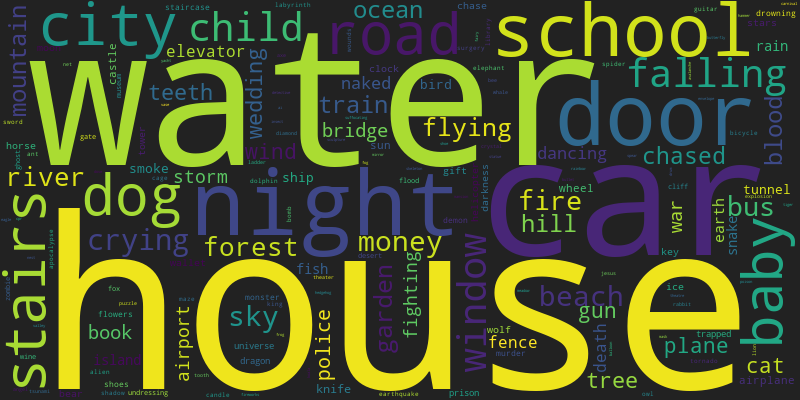
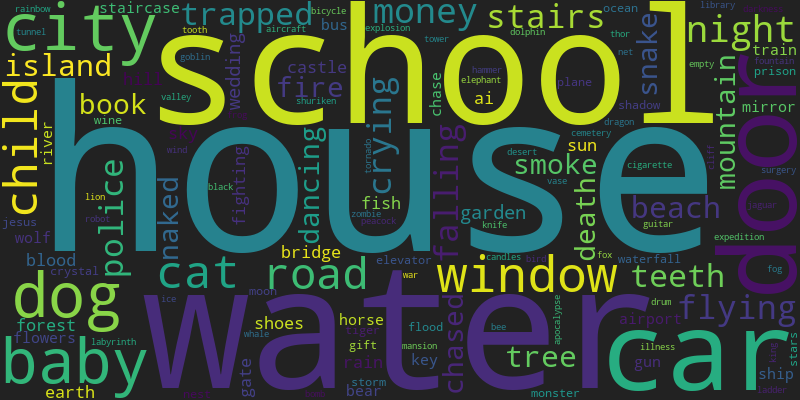
Add files via upload

diff --git a/index.html b/index.html
@@ -1,6 +1,6 @@
 <div style="padding-top: 50px;"></div>
 <h1 style="text-align:center;">Dreamverse State</h1>
-<h2 style="text-align:center;">August 30, 2024</h2>
+<h2 style="text-align:center;">September 30, 2024</h2>
 <div style="padding: 80px;"><html>
     <head>
         <meta charset="utf-8">
@@ -91,8 +91,8 @@
                   
 
                   // parsing and collecting nodes and edges from the python
-                  nodes = new vis.DataSet([{"color": "#FA2EE1", "font": {"color": "white"}, "id": "vulnerability", "label": "vulnerability", "shape": "dot", "title": "vulnerability"}, {"color": "#791435", "font": {"color": "white"}, "id": "anxiety", "label": "anxiety", "shape": "dot", "title": "anxiety"}, {"color": "#FA2EE1", "font": {"color": "white"}, "id": "relationships", "label": "relationships", "shape": "dot", "title": "relationships"}, {"color": "#791435", "font": {"color": "white"}, "id": "uncertainty", "label": "uncertainty", "shape": "dot", "title": "uncertainty"}, {"color": "#4A264A", "font": {"color": "white"}, "id": "family", "label": "family", "shape": "dot", "title": "family"}, {"color": "#4A264A", "font": {"color": "white"}, "id": "responsibility", "label": "responsibility", "shape": "dot", "title": "responsibility"}, {"color": "#4A264A", "font": {"color": "white"}, "id": "support", "label": "support", "shape": "dot", "title": "support"}, {"color": "#4A264A", "font": {"color": "white"}, "id": "conflict", "label": "conflict", "shape": "dot", "title": "conflict"}, {"color": "#4A264A", "font": {"color": "white"}, "id": "nostalgia", "label": "nostalgia", "shape": "dot", "title": "nostalgia"}, {"color": "#0CEF2D", "font": {"color": "white"}, "id": "control", "label": "control", "shape": "dot", "title": "control"}, {"color": "#791435", "font": {"color": "white"}, "id": "safety", "label": "safety", "shape": "dot", "title": "safety"}, {"color": "#4A264A", "font": {"color": "white"}, "id": "protection", "label": "protection", "shape": "dot", "title": "protection"}, {"color": "#B992BB", "font": {"color": "white"}, "id": "identity", "label": "identity", "shape": "dot", "title": "identity"}, {"color": "#FA2EE1", "font": {"color": "white"}, "id": "security", "label": "security", "shape": "dot", "title": "security"}, {"color": "#0CEF2D", "font": {"color": "white"}, "id": "boundaries", "label": "boundaries", "shape": "dot", "title": "boundaries"}, {"color": "#B992BB", "font": {"color": "white"}, "id": "change", "label": "change", "shape": "dot", "title": "change"}, {"color": "#FA2EE1", "font": {"color": "white"}, "id": "loss control", "label": "loss control", "shape": "dot", "title": "loss control"}, {"color": "#791435", "font": {"color": "white"}, "id": "fear", "label": "fear", "shape": "dot", "title": "fear"}, {"color": "#0CEF2D", "font": {"color": "white"}, "id": "resilience", "label": "resilience", "shape": "dot", "title": "resilience"}, {"color": "#4A264A", "font": {"color": "white"}, "id": "intimacy", "label": "intimacy", "shape": "dot", "title": "intimacy"}, {"color": "#B992BB", "font": {"color": "white"}, "id": "transformation", "label": "transformation", "shape": "dot", "title": "transformation"}, {"color": "#FA2EE1", "font": {"color": "white"}, "id": "betrayal", "label": "betrayal", "shape": "dot", "title": "betrayal"}, {"color": "#FA2EE1", "font": {"color": "white"}, "id": "communication", "label": "communication", "shape": "dot", "title": "communication"}, {"color": "#FA2EE1", "font": {"color": "white"}, "id": "insecurity", "label": "insecurity", "shape": "dot", "title": "insecurity"}, {"color": "#791435", "font": {"color": "white"}, "id": "transition", "label": "transition", "shape": "dot", "title": "transition"}, {"color": "#FA2EE1", "font": {"color": "white"}, "id": "exposure", "label": "exposure", "shape": "dot", "title": "exposure"}, {"color": "#4A264A", "font": {"color": "white"}, "id": "loss", "label": "loss", "shape": "dot", "title": "loss"}, {"color": "#4A264A", "font": {"color": "white"}, "id": "helplessness", "label": "helplessness", "shape": "dot", "title": "helplessness"}, {"color": "#FA2EE1", "font": {"color": "white"}, "id": "trust", "label": "trust", "shape": "dot", "title": "trust"}, {"color": "#FA2EE1", "font": {"color": "white"}, "id": "judgment", "label": "judgment", "shape": "dot", "title": "judgment"}, {"color": "#791435", "font": {"color": "white"}, "id": "powerlessness", "label": "powerlessness", "shape": "dot", "title": "powerlessness"}, {"color": "#FA2EE1", "font": {"color": "white"}, "id": "healing", "label": "healing", "shape": "dot", "title": "healing"}, {"color": "#B992BB", "font": {"color": "white"}, "id": "personal growth", "label": "personal growth", "shape": "dot", "title": "personal growth"}, {"color": "#0CEF2D", "font": {"color": "white"}, "id": "authority", "label": "authority", "shape": "dot", "title": "authority"}, {"color": "#4A264A", "font": {"color": "white"}, "id": "guilt", "label": "guilt", "shape": "dot", "title": "guilt"}, {"color": "#791435", "font": {"color": "white"}, "id": "overwhelm", "label": "overwhelm", "shape": "dot", "title": "overwhelm"}, {"color": "#791435", "font": {"color": "white"}, "id": "chaos", "label": "chaos", "shape": "dot", "title": "chaos"}, {"color": "#791435", "font": {"color": "white"}, "id": "pressure", "label": "pressure", "shape": "dot", "title": "pressure"}, {"color": "#0CEF2D", "font": {"color": "white"}, "id": "obstacles", "label": "obstacles", "shape": "dot", "title": "obstacles"}, {"color": "#791435", "font": {"color": "white"}, "id": "fear failure", "label": "fear failure", "shape": "dot", "title": "fear failure"}, {"color": "#791435", "font": {"color": "white"}, "id": "urgency", "label": "urgency", "shape": "dot", "title": "urgency"}, {"color": "#791435", "font": {"color": "white"}, "id": "unpreparedness", "label": "unpreparedness", "shape": "dot", "title": "unpreparedness"}, {"color": "#B992BB", "font": {"color": "white"}, "id": "new beginnings", "label": "new beginnings", "shape": "dot", "title": "new beginnings"}, {"color": "#791435", "font": {"color": "white"}, "id": "threat", "label": "threat", "shape": "dot", "title": "threat"}, {"color": "#791435", "font": {"color": "white"}, "id": "confrontation", "label": "confrontation", "shape": "dot", "title": "confrontation"}, {"color": "#791435", "font": {"color": "white"}, "id": "stress", "label": "stress", "shape": "dot", "title": "stress"}, {"color": "#791435", "font": {"color": "white"}, "id": "unresolved issues", "label": "unresolved issues", "shape": "dot", "title": "unresolved issues"}, {"color": "#4A264A", "font": {"color": "white"}, "id": "connection", "label": "connection", "shape": "dot", "title": "connection"}, {"color": "#791435", "font": {"color": "white"}, "id": "danger", "label": "danger", "shape": "dot", "title": "danger"}, {"color": "#791435", "font": {"color": "white"}, "id": "escape", "label": "escape", "shape": "dot", "title": "escape"}, {"color": "#B992BB", "font": {"color": "white"}, "id": "past relationships", "label": "past relationships", "shape": "dot", "title": "past relationships"}, {"color": "#B992BB", "font": {"color": "white"}, "id": "closure", "label": "closure", "shape": "dot", "title": "closure"}, {"color": "#B992BB", "font": {"color": "white"}, "id": "unresolved emotions", "label": "unresolved emotions", "shape": "dot", "title": "unresolved emotions"}, {"color": "#4A264A", "font": {"color": "white"}, "id": "comfort", "label": "comfort", "shape": "dot", "title": "comfort"}, {"color": "#791435", "font": {"color": "white"}, "id": "journey", "label": "journey", "shape": "dot", "title": "journey"}, {"color": "#B992BB", "font": {"color": "white"}, "id": "selfdiscovery", "label": "selfdiscovery", "shape": "dot", "title": "selfdiscovery"}, {"color": "#4A264A", "font": {"color": "white"}, "id": "guidance", "label": "guidance", "shape": "dot", "title": "guidance"}, {"color": "#791435", "font": {"color": "white"}, "id": "isolation", "label": "isolation", "shape": "dot", "title": "isolation"}, {"color": "#B992BB", "font": {"color": "white"}, "id": "growth", "label": "growth", "shape": "dot", "title": "growth"}, {"color": "#791435", "font": {"color": "white"}, "id": "struggle", "label": "struggle", "shape": "dot", "title": "struggle"}, {"color": "#0CEF2D", "font": {"color": "white"}, "id": "strength", "label": "strength", "shape": "dot", "title": "strength"}, {"color": "#B992BB", "font": {"color": "white"}, "id": "exploration", "label": "exploration", "shape": "dot", "title": "exploration"}, {"color": "#0CEF2D", "font": {"color": "white"}, "id": "frustration", "label": "frustration", "shape": "dot", "title": "frustration"}, {"color": "#0CEF2D", "font": {"color": "white"}, "id": "independence", "label": "independence", "shape": "dot", "title": "independence"}, {"color": "#0CEF2D", "font": {"color": "white"}, "id": "stability", "label": "stability", "shape": "dot", "title": "stability"}, {"color": "#0CEF2D", "font": {"color": "white"}, "id": "power", "label": "power", "shape": "dot", "title": "power"}, {"color": "#0CEF2D", "font": {"color": "white"}, "id": "balance", "label": "balance", "shape": "dot", "title": "balance"}, {"color": "#FA2EE1", "font": {"color": "white"}, "id": "jealousy", "label": "jealousy", "shape": "dot", "title": "jealousy"}, {"color": "#FA2EE1", "font": {"color": "white"}, "id": "relationship", "label": "relationship", "shape": "dot", "title": "relationship"}, {"color": "#4A264A", "font": {"color": "white"}, "id": "friendship", "label": "friendship", "shape": "dot", "title": "friendship"}, {"color": "#4A264A", "font": {"color": "white"}, "id": "wisdom", "label": "wisdom", "shape": "dot", "title": "wisdom"}, {"color": "#0CEF2D", "font": {"color": "white"}, "id": "challenges", "label": "challenges", "shape": "dot", "title": "challenges"}, {"color": "#B992BB", "font": {"color": "white"}, "id": "acceptance", "label": "acceptance", "shape": "dot", "title": "acceptance"}, {"color": "#4A264A", "font": {"color": "white"}, "id": "childhood", "label": "childhood", "shape": "dot", "title": "childhood"}, {"color": "#4A264A", "font": {"color": "white"}, "id": "grief", "label": "grief", "shape": "dot", "title": "grief"}, {"color": "#B992BB", "font": {"color": "white"}, "id": "belonging", "label": "belonging", "shape": "dot", "title": "belonging"}, {"color": "#4A264A", "font": {"color": "white"}, "id": "nurturing", "label": "nurturing", "shape": "dot", "title": "nurturing"}, {"color": "#B992BB", "font": {"color": "white"}, "id": "adventure", "label": "adventure", "shape": "dot", "title": "adventure"}, {"color": "#0CEF2D", "font": {"color": "white"}, "id": "harmony", "label": "harmony", "shape": "dot", "title": "harmony"}, {"color": "#4A264A", "font": {"color": "white"}, "id": "desire", "label": "desire", "shape": "dot", "title": "desire"}]);
-                  edges = new vis.DataSet([{"from": "vulnerability", "to": "anxiety", "value": 67}, {"from": "vulnerability", "to": "relationships", "value": 13}, {"from": "vulnerability", "to": "uncertainty", "value": 14}, {"from": "vulnerability", "to": "family", "value": 16}, {"from": "vulnerability", "to": "responsibility", "value": 13}, {"from": "vulnerability", "to": "support", "value": 31}, {"from": "vulnerability", "to": "conflict", "value": 19}, {"from": "vulnerability", "to": "nostalgia", "value": 10}, {"from": "vulnerability", "to": "control", "value": 37}, {"from": "vulnerability", "to": "safety", "value": 11}, {"from": "vulnerability", "to": "protection", "value": 43}, {"from": "vulnerability", "to": "identity", "value": 22}, {"from": "vulnerability", "to": "security", "value": 23}, {"from": "vulnerability", "to": "boundaries", "value": 11}, {"from": "vulnerability", "to": "change", "value": 20}, {"from": "vulnerability", "to": "loss control", "value": 17}, {"from": "vulnerability", "to": "fear", "value": 68}, {"from": "vulnerability", "to": "resilience", "value": 18}, {"from": "vulnerability", "to": "intimacy", "value": 13}, {"from": "vulnerability", "to": "transformation", "value": 17}, {"from": "vulnerability", "to": "betrayal", "value": 11}, {"from": "vulnerability", "to": "communication", "value": 11}, {"from": "vulnerability", "to": "insecurity", "value": 18}, {"from": "vulnerability", "to": "transition", "value": 11}, {"from": "vulnerability", "to": "exposure", "value": 18}, {"from": "vulnerability", "to": "loss", "value": 22}, {"from": "vulnerability", "to": "helplessness", "value": 14}, {"from": "vulnerability", "to": "trust", "value": 13}, {"from": "vulnerability", "to": "judgment", "value": 14}, {"from": "vulnerability", "to": "powerlessness", "value": 10}, {"from": "vulnerability", "to": "healing", "value": 12}, {"from": "anxiety", "to": "fear", "value": 109}, {"from": "anxiety", "to": "loss", "value": 40}, {"from": "anxiety", "to": "change", "value": 37}, {"from": "anxiety", "to": "identity", "value": 24}, {"from": "anxiety", "to": "conflict", "value": 17}, {"from": "anxiety", "to": "protection", "value": 54}, {"from": "anxiety", "to": "personal growth", "value": 12}, {"from": "anxiety", "to": "family", "value": 38}, {"from": "anxiety", "to": "control", "value": 46}, {"from": "anxiety", "to": "safety", "value": 16}, {"from": "anxiety", "to": "loss control", "value": 18}, {"from": "anxiety", "to": "transformation", "value": 20}, {"from": "anxiety", "to": "authority", "value": 10}, {"from": "anxiety", "to": "guilt", "value": 22}, {"from": "anxiety", "to": "overwhelm", "value": 23}, {"from": "anxiety", "to": "resilience", "value": 18}, {"from": "anxiety", "to": "responsibility", "value": 58}, {"from": "anxiety", "to": "security", "value": 17}, {"from": "anxiety", "to": "chaos", "value": 10}, {"from": "anxiety", "to": "pressure", "value": 15}, {"from": "anxiety", "to": "support", "value": 33}, {"from": "anxiety", "to": "uncertainty", "value": 36}, {"from": "anxiety", "to": "obstacles", "value": 11}, {"from": "anxiety", "to": "helplessness", "value": 22}, {"from": "anxiety", "to": "fear failure", "value": 14}, {"from": "anxiety", "to": "urgency", "value": 10}, {"from": "anxiety", "to": "unpreparedness", "value": 10}, {"from": "anxiety", "to": "new beginnings", "value": 14}, {"from": "anxiety", "to": "relationships", "value": 18}, {"from": "anxiety", "to": "communication", "value": 18}, {"from": "anxiety", "to": "threat", "value": 12}, {"from": "anxiety", "to": "confrontation", "value": 11}, {"from": "anxiety", "to": "stress", "value": 28}, {"from": "anxiety", "to": "transition", "value": 23}, {"from": "anxiety", "to": "nostalgia", "value": 13}, {"from": "anxiety", "to": "unresolved issues", "value": 12}, {"from": "anxiety", "to": "connection", "value": 10}, {"from": "anxiety", "to": "danger", "value": 15}, {"from": "anxiety", "to": "powerlessness", "value": 11}, {"from": "relationships", "to": "personal growth", "value": 13}, {"from": "relationships", "to": "fear", "value": 16}, {"from": "relationships", "to": "control", "value": 13}, {"from": "relationships", "to": "uncertainty", "value": 11}, {"from": "relationships", "to": "communication", "value": 14}, {"from": "relationships", "to": "identity", "value": 13}, {"from": "relationships", "to": "conflict", "value": 13}, {"from": "relationships", "to": "support", "value": 10}, {"from": "relationships", "to": "exploration", "value": 10}, {"from": "relationships", "to": "trust", "value": 11}, {"from": "relationships", "to": "change", "value": 13}, {"from": "relationships", "to": "insecurity", "value": 11}, {"from": "relationships", "to": "nostalgia", "value": 12}, {"from": "uncertainty", "to": "transition", "value": 19}, {"from": "uncertainty", "to": "fear", "value": 33}, {"from": "uncertainty", "to": "protection", "value": 12}, {"from": "uncertainty", "to": "control", "value": 20}, {"from": "uncertainty", "to": "support", "value": 15}, {"from": "uncertainty", "to": "loss", "value": 10}, {"from": "uncertainty", "to": "responsibility", "value": 12}, {"from": "uncertainty", "to": "guidance", "value": 11}, {"from": "uncertainty", "to": "transformation", "value": 10}, {"from": "uncertainty", "to": "change", "value": 13}, {"from": "family", "to": "comfort", "value": 11}, {"from": "family", "to": "journey", "value": 12}, {"from": "family", "to": "guilt", "value": 11}, {"from": "family", "to": "transition", "value": 13}, {"from": "family", "to": "fear", "value": 21}, {"from": "family", "to": "protection", "value": 33}, {"from": "family", "to": "control", "value": 12}, {"from": "family", "to": "security", "value": 11}, {"from": "family", "to": "friendship", "value": 11}, {"from": "family", "to": "guidance", "value": 14}, {"from": "family", "to": "loss", "value": 26}, {"from": "family", "to": "responsibility", "value": 38}, {"from": "family", "to": "support", "value": 27}, {"from": "family", "to": "nurturing", "value": 11}, {"from": "family", "to": "nostalgia", "value": 30}, {"from": "family", "to": "grief", "value": 11}, {"from": "family", "to": "connection", "value": 17}, {"from": "family", "to": "change", "value": 15}, {"from": "responsibility", "to": "personal growth", "value": 11}, {"from": "responsibility", "to": "guilt", "value": 20}, {"from": "responsibility", "to": "fear", "value": 24}, {"from": "responsibility", "to": "protection", "value": 34}, {"from": "responsibility", "to": "control", "value": 19}, {"from": "responsibility", "to": "loss", "value": 16}, {"from": "responsibility", "to": "identity", "value": 11}, {"from": "responsibility", "to": "support", "value": 21}, {"from": "responsibility", "to": "overwhelm", "value": 15}, {"from": "responsibility", "to": "nurturing", "value": 28}, {"from": "responsibility", "to": "new beginnings", "value": 13}, {"from": "responsibility", "to": "pressure", "value": 13}, {"from": "responsibility", "to": "balance", "value": 13}, {"from": "responsibility", "to": "change", "value": 12}, {"from": "support", "to": "fear", "value": 28}, {"from": "support", "to": "protection", "value": 18}, {"from": "support", "to": "control", "value": 11}, {"from": "support", "to": "security", "value": 11}, {"from": "support", "to": "friendship", "value": 13}, {"from": "support", "to": "guidance", "value": 20}, {"from": "support", "to": "challenges", "value": 14}, {"from": "support", "to": "loss", "value": 12}, {"from": "support", "to": "identity", "value": 12}, {"from": "support", "to": "conflict", "value": 17}, {"from": "support", "to": "nurturing", "value": 13}, {"from": "support", "to": "resilience", "value": 13}, {"from": "support", "to": "nostalgia", "value": 14}, {"from": "conflict", "to": "guilt", "value": 14}, {"from": "conflict", "to": "fear", "value": 28}, {"from": "conflict", "to": "protection", "value": 15}, {"from": "conflict", "to": "identity", "value": 13}, {"from": "nostalgia", "to": "comfort", "value": 15}, {"from": "nostalgia", "to": "personal growth", "value": 13}, {"from": "nostalgia", "to": "protection", "value": 12}, {"from": "nostalgia", "to": "friendship", "value": 20}, {"from": "nostalgia", "to": "guidance", "value": 11}, {"from": "nostalgia", "to": "childhood", "value": 15}, {"from": "nostalgia", "to": "loss", "value": 16}, {"from": "nostalgia", "to": "identity", "value": 10}, {"from": "nostalgia", "to": "change", "value": 16}, {"from": "nostalgia", "to": "connection", "value": 13}, {"from": "control", "to": "fear", "value": 35}, {"from": "control", "to": "protection", "value": 20}, {"from": "control", "to": "identity", "value": 14}, {"from": "control", "to": "authority", "value": 13}, {"from": "control", "to": "insecurity", "value": 17}, {"from": "control", "to": "transformation", "value": 13}, {"from": "control", "to": "resilience", "value": 11}, {"from": "control", "to": "change", "value": 12}, {"from": "control", "to": "loss", "value": 16}, {"from": "control", "to": "frustration", "value": 11}, {"from": "control", "to": "independence", "value": 11}, {"from": "control", "to": "boundaries", "value": 15}, {"from": "control", "to": "trust", "value": 10}, {"from": "control", "to": "stability", "value": 13}, {"from": "control", "to": "power", "value": 11}, {"from": "control", "to": "balance", "value": 12}, {"from": "safety", "to": "fear", "value": 12}, {"from": "safety", "to": "protection", "value": 17}, {"from": "protection", "to": "fear", "value": 50}, {"from": "protection", "to": "guidance", "value": 10}, {"from": "protection", "to": "transformation", "value": 14}, {"from": "protection", "to": "loss", "value": 15}, {"from": "protection", "to": "helplessness", "value": 19}, {"from": "protection", "to": "change", "value": 12}, {"from": "protection", "to": "strength", "value": 11}, {"from": "identity", "to": "selfdiscovery", "value": 10}, {"from": "identity", "to": "acceptance", "value": 10}, {"from": "identity", "to": "loss", "value": 12}, {"from": "identity", "to": "transformation", "value": 29}, {"from": "identity", "to": "change", "value": 19}, {"from": "identity", "to": "authority", "value": 12}, {"from": "identity", "to": "belonging", "value": 10}, {"from": "security", "to": "fear", "value": 16}, {"from": "change", "to": "transition", "value": 23}, {"from": "change", "to": "fear", "value": 22}, {"from": "change", "to": "friendship", "value": 10}, {"from": "change", "to": "loss", "value": 18}, {"from": "change", "to": "transformation", "value": 29}, {"from": "change", "to": "growth", "value": 15}, {"from": "change", "to": "new beginnings", "value": 10}, {"from": "loss control", "to": "fear", "value": 15}, {"from": "fear", "to": "escape", "value": 10}, {"from": "fear", "to": "guilt", "value": 17}, {"from": "fear", "to": "transition", "value": 14}, {"from": "fear", "to": "loss", "value": 25}, {"from": "fear", "to": "transformation", "value": 22}, {"from": "fear", "to": "authority", "value": 13}, {"from": "fear", "to": "pressure", "value": 16}, {"from": "fear", "to": "helplessness", "value": 20}, {"from": "fear", "to": "guidance", "value": 11}, {"from": "fear", "to": "powerlessness", "value": 17}, {"from": "fear", "to": "obstacles", "value": 10}, {"from": "fear", "to": "overwhelm", "value": 16}, {"from": "fear", "to": "threat", "value": 11}, {"from": "fear", "to": "confrontation", "value": 17}, {"from": "fear", "to": "resilience", "value": 15}, {"from": "fear", "to": "danger", "value": 16}, {"from": "fear", "to": "insecurity", "value": 22}, {"from": "fear", "to": "stress", "value": 10}, {"from": "fear", "to": "isolation", "value": 15}, {"from": "fear", "to": "growth", "value": 11}, {"from": "fear", "to": "struggle", "value": 12}, {"from": "resilience", "to": "challenges", "value": 12}, {"from": "resilience", "to": "transformation", "value": 12}, {"from": "resilience", "to": "strength", "value": 11}, {"from": "intimacy", "to": "friendship", "value": 10}, {"from": "intimacy", "to": "desire", "value": 18}, {"from": "intimacy", "to": "connection", "value": 14}, {"from": "transformation", "to": "personal growth", "value": 15}, {"from": "transformation", "to": "selfdiscovery", "value": 17}, {"from": "transformation", "to": "growth", "value": 22}, {"from": "transformation", "to": "new beginnings", "value": 18}, {"from": "betrayal", "to": "loss", "value": 10}, {"from": "betrayal", "to": "insecurity", "value": 15}, {"from": "communication", "to": "relationship", "value": 13}, {"from": "communication", "to": "insecurity", "value": 13}, {"from": "insecurity", "to": "jealousy", "value": 11}, {"from": "insecurity", "to": "trust", "value": 12}, {"from": "transition", "to": "journey", "value": 14}, {"from": "transition", "to": "personal growth", "value": 14}, {"from": "transition", "to": "loss", "value": 15}, {"from": "loss", "to": "grief", "value": 30}, {"from": "loss", "to": "connection", "value": 12}, {"from": "loss", "to": "helplessness", "value": 17}, {"from": "personal growth", "to": "past relationships", "value": 11}, {"from": "personal growth", "to": "selfdiscovery", "value": 19}, {"from": "personal growth", "to": "new beginnings", "value": 13}, {"from": "obstacles", "to": "frustration", "value": 10}, {"from": "new beginnings", "to": "nurturing", "value": 13}, {"from": "connection", "to": "friendship", "value": 12}, {"from": "connection", "to": "nurturing", "value": 10}, {"from": "connection", "to": "exploration", "value": 11}, {"from": "connection", "to": "desire", "value": 10}, {"from": "past relationships", "to": "closure", "value": 10}, {"from": "past relationships", "to": "unresolved emotions", "value": 11}, {"from": "selfdiscovery", "to": "exploration", "value": 11}, {"from": "guidance", "to": "wisdom", "value": 11}, {"from": "growth", "to": "exploration", "value": 11}, {"from": "exploration", "to": "adventure", "value": 16}, {"from": "balance", "to": "harmony", "value": 11}]);
+                  nodes = new vis.DataSet([{"color": "#CFE401", "font": {"color": "white"}, "id": "transition", "label": "transition", "shape": "dot", "title": "transition"}, {"color": "#CFE401", "font": {"color": "white"}, "id": "change", "label": "change", "shape": "dot", "title": "change"}, {"color": "#CFE401", "font": {"color": "white"}, "id": "growth", "label": "growth", "shape": "dot", "title": "growth"}, {"color": "#CFE401", "font": {"color": "white"}, "id": "identity", "label": "identity", "shape": "dot", "title": "identity"}, {"color": "#CFE401", "font": {"color": "white"}, "id": "transformation", "label": "transformation", "shape": "dot", "title": "transformation"}, {"color": "#CFE401", "font": {"color": "white"}, "id": "nostalgia", "label": "nostalgia", "shape": "dot", "title": "nostalgia"}, {"color": "#30AF31", "font": {"color": "white"}, "id": "anxiety", "label": "anxiety", "shape": "dot", "title": "anxiety"}, {"color": "#CFE401", "font": {"color": "white"}, "id": "uncertainty", "label": "uncertainty", "shape": "dot", "title": "uncertainty"}, {"color": "#1B681B", "font": {"color": "white"}, "id": "relationships", "label": "relationships", "shape": "dot", "title": "relationships"}, {"color": "#1B681B", "font": {"color": "white"}, "id": "friendship", "label": "friendship", "shape": "dot", "title": "friendship"}, {"color": "#CFE401", "font": {"color": "white"}, "id": "journey", "label": "journey", "shape": "dot", "title": "journey"}, {"color": "#30AF31", "font": {"color": "white"}, "id": "family", "label": "family", "shape": "dot", "title": "family"}, {"color": "#37807D", "font": {"color": "white"}, "id": "new beginnings", "label": "new beginnings", "shape": "dot", "title": "new beginnings"}, {"color": "#30AF31", "font": {"color": "white"}, "id": "nurturing", "label": "nurturing", "shape": "dot", "title": "nurturing"}, {"color": "#37807D", "font": {"color": "white"}, "id": "support", "label": "support", "shape": "dot", "title": "support"}, {"color": "#37807D", "font": {"color": "white"}, "id": "potential", "label": "potential", "shape": "dot", "title": "potential"}, {"color": "#30AF31", "font": {"color": "white"}, "id": "trust", "label": "trust", "shape": "dot", "title": "trust"}, {"color": "#30AF31", "font": {"color": "white"}, "id": "fear", "label": "fear", "shape": "dot", "title": "fear"}, {"color": "#1B681B", "font": {"color": "white"}, "id": "adventure", "label": "adventure", "shape": "dot", "title": "adventure"}, {"color": "#37807D", "font": {"color": "white"}, "id": "loss", "label": "loss", "shape": "dot", "title": "loss"}, {"color": "#30AF31", "font": {"color": "white"}, "id": "vulnerability", "label": "vulnerability", "shape": "dot", "title": "vulnerability"}, {"color": "#1B681B", "font": {"color": "white"}, "id": "creativity", "label": "creativity", "shape": "dot", "title": "creativity"}, {"color": "#1B681B", "font": {"color": "white"}, "id": "selfdiscovery", "label": "selfdiscovery", "shape": "dot", "title": "selfdiscovery"}, {"color": "#1B681B", "font": {"color": "white"}, "id": "selfexpression", "label": "selfexpression", "shape": "dot", "title": "selfexpression"}, {"color": "#CFE401", "font": {"color": "white"}, "id": "renewal", "label": "renewal", "shape": "dot", "title": "renewal"}, {"color": "#CFE401", "font": {"color": "white"}, "id": "personal growth", "label": "personal growth", "shape": "dot", "title": "personal growth"}, {"color": "#CFE401", "font": {"color": "white"}, "id": "healing", "label": "healing", "shape": "dot", "title": "healing"}, {"color": "#30AF31", "font": {"color": "white"}, "id": "protection", "label": "protection", "shape": "dot", "title": "protection"}, {"color": "#CFE401", "font": {"color": "white"}, "id": "spirituality", "label": "spirituality", "shape": "dot", "title": "spirituality"}, {"color": "#CFE401", "font": {"color": "white"}, "id": "reconciliation", "label": "reconciliation", "shape": "dot", "title": "reconciliation"}, {"color": "#30AF31", "font": {"color": "white"}, "id": "family dynamics", "label": "family dynamics", "shape": "dot", "title": "family dynamics"}, {"color": "#30AF31", "font": {"color": "white"}, "id": "responsibility", "label": "responsibility", "shape": "dot", "title": "responsibility"}, {"color": "#30AF31", "font": {"color": "white"}, "id": "empathy", "label": "empathy", "shape": "dot", "title": "empathy"}, {"color": "#1B681B", "font": {"color": "white"}, "id": "exploration", "label": "exploration", "shape": "dot", "title": "exploration"}, {"color": "#30AF31", "font": {"color": "white"}, "id": "overwhelm", "label": "overwhelm", "shape": "dot", "title": "overwhelm"}, {"color": "#30AF31", "font": {"color": "white"}, "id": "caregiving", "label": "caregiving", "shape": "dot", "title": "caregiving"}, {"color": "#30AF31", "font": {"color": "white"}, "id": "stress", "label": "stress", "shape": "dot", "title": "stress"}, {"color": "#30AF31", "font": {"color": "white"}, "id": "resilience", "label": "resilience", "shape": "dot", "title": "resilience"}, {"color": "#30AF31", "font": {"color": "white"}, "id": "exposure", "label": "exposure", "shape": "dot", "title": "exposure"}, {"color": "#CFE401", "font": {"color": "white"}, "id": "confusion", "label": "confusion", "shape": "dot", "title": "confusion"}, {"color": "#CFE401", "font": {"color": "white"}, "id": "cultural heritage", "label": "cultural heritage", "shape": "dot", "title": "cultural heritage"}, {"color": "#CFE401", "font": {"color": "white"}, "id": "childhood", "label": "childhood", "shape": "dot", "title": "childhood"}, {"color": "#1B681B", "font": {"color": "white"}, "id": "freedom", "label": "freedom", "shape": "dot", "title": "freedom"}, {"color": "#FEDF55", "font": {"color": "white"}, "id": "boundaries", "label": "boundaries", "shape": "dot", "title": "boundaries"}, {"color": "#FEDF55", "font": {"color": "white"}, "id": "control", "label": "control", "shape": "dot", "title": "control"}, {"color": "#30AF31", "font": {"color": "white"}, "id": "escape", "label": "escape", "shape": "dot", "title": "escape"}, {"color": "#37807D", "font": {"color": "white"}, "id": "grief", "label": "grief", "shape": "dot", "title": "grief"}]);
+                  edges = new vis.DataSet([{"from": "transition", "to": "change", "value": 4}, {"from": "change", "to": "growth", "value": 4}, {"from": "change", "to": "identity", "value": 7}, {"from": "change", "to": "transformation", "value": 8}, {"from": "change", "to": "nostalgia", "value": 5}, {"from": "change", "to": "anxiety", "value": 5}, {"from": "change", "to": "uncertainty", "value": 4}, {"from": "growth", "to": "identity", "value": 4}, {"from": "identity", "to": "transformation", "value": 5}, {"from": "identity", "to": "responsibility", "value": 4}, {"from": "identity", "to": "protection", "value": 4}, {"from": "identity", "to": "cultural heritage", "value": 4}, {"from": "transformation", "to": "relationships", "value": 5}, {"from": "transformation", "to": "journey", "value": 5}, {"from": "transformation", "to": "support", "value": 4}, {"from": "transformation", "to": "creativity", "value": 4}, {"from": "transformation", "to": "uncertainty", "value": 4}, {"from": "transformation", "to": "renewal", "value": 7}, {"from": "transformation", "to": "nostalgia", "value": 6}, {"from": "transformation", "to": "family", "value": 4}, {"from": "transformation", "to": "personal growth", "value": 4}, {"from": "transformation", "to": "selfdiscovery", "value": 6}, {"from": "transformation", "to": "healing", "value": 7}, {"from": "transformation", "to": "protection", "value": 4}, {"from": "transformation", "to": "spirituality", "value": 4}, {"from": "transformation", "to": "reconciliation", "value": 4}, {"from": "nostalgia", "to": "responsibility", "value": 4}, {"from": "nostalgia", "to": "childhood", "value": 4}, {"from": "anxiety", "to": "responsibility", "value": 11}, {"from": "anxiety", "to": "vulnerability", "value": 8}, {"from": "anxiety", "to": "family", "value": 7}, {"from": "anxiety", "to": "uncertainty", "value": 5}, {"from": "anxiety", "to": "fear", "value": 5}, {"from": "anxiety", "to": "protection", "value": 7}, {"from": "uncertainty", "to": "journey", "value": 4}, {"from": "uncertainty", "to": "family", "value": 4}, {"from": "uncertainty", "to": "confusion", "value": 4}, {"from": "relationships", "to": "friendship", "value": 4}, {"from": "friendship", "to": "adventure", "value": 4}, {"from": "journey", "to": "family", "value": 4}, {"from": "family", "to": "responsibility", "value": 9}, {"from": "family", "to": "vulnerability", "value": 4}, {"from": "family", "to": "fear", "value": 4}, {"from": "family", "to": "protection", "value": 12}, {"from": "new beginnings", "to": "nurturing", "value": 6}, {"from": "new beginnings", "to": "support", "value": 4}, {"from": "new beginnings", "to": "potential", "value": 5}, {"from": "nurturing", "to": "responsibility", "value": 8}, {"from": "nurturing", "to": "protection", "value": 4}, {"from": "support", "to": "loss", "value": 4}, {"from": "support", "to": "vulnerability", "value": 4}, {"from": "trust", "to": "fear", "value": 6}, {"from": "fear", "to": "vulnerability", "value": 4}, {"from": "fear", "to": "resilience", "value": 4}, {"from": "fear", "to": "protection", "value": 4}, {"from": "fear", "to": "escape", "value": 4}, {"from": "adventure", "to": "exploration", "value": 4}, {"from": "loss", "to": "responsibility", "value": 5}, {"from": "loss", "to": "protection", "value": 4}, {"from": "loss", "to": "grief", "value": 4}, {"from": "vulnerability", "to": "family dynamics", "value": 4}, {"from": "vulnerability", "to": "responsibility", "value": 9}, {"from": "vulnerability", "to": "stress", "value": 4}, {"from": "vulnerability", "to": "resilience", "value": 4}, {"from": "vulnerability", "to": "protection", "value": 9}, {"from": "vulnerability", "to": "exposure", "value": 5}, {"from": "creativity", "to": "selfdiscovery", "value": 5}, {"from": "creativity", "to": "selfexpression", "value": 6}, {"from": "selfdiscovery", "to": "exploration", "value": 6}, {"from": "protection", "to": "responsibility", "value": 13}, {"from": "protection", "to": "resilience", "value": 7}, {"from": "family dynamics", "to": "responsibility", "value": 4}, {"from": "responsibility", "to": "empathy", "value": 4}, {"from": "responsibility", "to": "overwhelm", "value": 5}, {"from": "responsibility", "to": "caregiving", "value": 4}, {"from": "exploration", "to": "freedom", "value": 4}, {"from": "boundaries", "to": "control", "value": 4}]);
 
                   nodeColors = {};
                   allNodes = nodes.get({ returnType: "Object" });
@@ -193,31 +193,43 @@
     
 <br>
 <h1>Initial Reflection</h1>
-<h2>Dreams are a profound gateway into our unconscious, a realm where our deepest fears, desires, and hopes intertwine. The Dreamverse, a shared space of interconnected dreams, reveals the intricate patterns of the human psyche. As we delve into these constellations of themes, we uncover the psychological undercurrents that shape our lives, guiding us towards self-awareness, healing, and growth. Each constellation offers a unique lens through which to view our inner world, urging us to confront and embrace the complexities within.</h2>
+<h2>Dreams offer a glimpse into the unconscious mind, revealing the deep-seated fears, desires, and transformative processes within each Seer. The constellations we uncover here are not just random clusters of thoughts, but profound maps of psychological and existential meaning. Each constellation carries insight into individual growth, societal tensions, and the universal quest for meaning. By exploring these constellations, we can better understand not only ourselves but the world around us.</h2>
 <br>
 
-<h1>The Constellation of Vulnerability and Healing</h1>
-<h2>This constellation revolves around the delicate balance between vulnerability and the search for security in relationships. Themes of trust, betrayal, and insecurity weave together to form a narrative of human connection, where the fear of exposure and judgment often battles with the deep-seated need for communication and healing. This constellation speaks to the universal human experience of navigating relationships, where the potential for hurt is intertwined with the possibility of profound growth and healing. It highlights the importance of trust and open communication in building secure connections, while also acknowledging the pain that can arise from betrayal and loss of control. The journey through this constellation is one of learning to embrace vulnerability as a pathway to deeper intimacy and self-acceptance.</h2>
+<details>
+  <summary><h1>Name of The Constellation 1: The Inner Conflict of Transformation</h1></summary>
+  <h2>This constellation represents a battle between old identities and new selves. Themes of death, rebirth, change, and resistance are prominent. Psychologically, this cluster points toward the challenges of personal growth, where the desire for transformation is met with internal resistance. Seers might feel stuck between letting go of the familiar and embracing the unknown. The struggle reflects both individual and collective shifts, mirroring how societies face upheavals before growth and evolution.</h2>
+</details>
 <br>
 
-<h1>The Constellation of Anxiety and Transition</h1>
-<h2>This constellation is a testament to the pervasive presence of anxiety in times of change and uncertainty. It captures the overwhelming feelings of powerlessness, chaos, and fear that accompany transitions, whether they be personal or societal. The recurring themes of danger, confrontation, and the need for escape reflect the struggle to find stability in a world that often feels threatening and unpredictable. However, within this turbulence lies the potential for growth, as each challenge presents an opportunity to confront unresolved issues and build resilience. The journey through this constellation is one of learning to navigate the unknown, to find a sense of safety within oneself, and to transform fear into courage.</h2>
+<details>
+  <summary><h1>Name of The Constellation 2: The Search for Belonging</h1></summary>
+  <h2>Themes of isolation, community, and connection weave through this constellation. Dreams that reveal yearning for acceptance or fear of exclusion show the Seer's deep need for belonging. On a societal level, this constellation reflects the global tension between individualism and collectivism, and the underlying anxiety many feel about finding their place in an increasingly disconnected world. Psychologically, these dreams highlight the importance of relationships in our development and the existential dread of being alone.</h2>
+</details>
 <br>
 
-<h1>The Constellation of Family and Responsibility</h1>
-<h2>This constellation is centered on the foundational role of family and the responsibilities it entails. Themes of protection, support, and nurturing are contrasted with feelings of conflict, guilt, and loss, reflecting the complex dynamics that define familial relationships. The presence of nostalgia and childhood memories suggests a longing for connection and comfort, while the themes of grief and helplessness point to the inevitable losses that come with time. This constellation invites reflection on the roles we play within our families, the burdens we carry, and the ways in which we seek guidance and wisdom from those who have come before us. It emphasizes the importance of nurturing both ourselves and others, fostering connections that provide strength and comfort in times of need.</h2>
+<details>
+  <summary><h1>Name of The Constellation 3: The Exploration of the Unknown</h1></summary>
+  <h2>Here, themes of adventure, discovery, and curiosity come together. This constellation speaks to the universal human urge to explore the unknown, both within the self and in the outer world. Dreams of distant lands, unfamiliar faces, or uncharted territories point to the Seer's deep desire for growth and novelty. Psychologically, this cluster reflects a period of expansion and openness in the Seer's life, where the comfort of routine is replaced with a drive for self-exploration.</h2>
+</details>
 <br>
 
-<h1>The Constellation of Control and Resilience</h1>
-<h2>This constellation highlights the ongoing struggle for control and the resilience required to overcome obstacles. Themes of authority, boundaries, and power intertwine with challenges, frustration, and the quest for balance. The presence of strength and independence underscores the human desire for stability and autonomy, while the ongoing battle with external and internal obstacles reflects the resilience needed to maintain control in the face of adversity. This constellation speaks to the importance of setting boundaries and asserting oneself while also recognizing the need for balance and harmony. It encourages a focus on cultivating inner strength and resilience, empowering individuals to face challenges with confidence and maintain control over their own lives.</h2>
+<details>
+  <summary><h1>Name of The Constellation 4: The Shadow Self</h1></summary>
+  <h2>This constellation reveals the darker aspects of the psyche—fears, guilt, and suppressed desires. Themes of confrontation with one's shadow emerge in dreams filled with fearsome creatures, personal demons, or moral dilemmas. Psychologically, these dreams represent the Seer's attempt to integrate their shadow self, acknowledging the parts of themselves they tend to hide. This process, while uncomfortable, is essential for personal growth and healing, as it brings to light the aspects of the self that need acceptance and understanding.</h2>
+</details>
 <br>
 
-<h1>The Constellation of Identity and Transformation</h1>
-<h2>This constellation represents the profound journey of self-discovery and personal growth. It is a space of change, transformation, and new beginnings, where past relationships and unresolved emotions resurface to be confronted and understood. Themes of exploration, acceptance, and belonging weave together to form a narrative of identity, where the quest for self-discovery is both an adventure and a challenge. This constellation encourages embracing change as a natural part of life, fostering a sense of curiosity and openness towards the unknown. It highlights the importance of accepting oneself, finding a sense of belonging, and embarking on the ongoing journey of personal growth.</h2>
+<details>
+  <summary><h1>Name of The Constellation 5: The Return to Innocence</h1></summary>
+  <h2>Themes of childhood, simplicity, and purity dominate this constellation. These dreams reflect a longing to return to a state of innocence, perhaps to escape the complexities and burdens of adult life. Psychologically, the Seer may be yearning for a sense of safety and purity that has been lost. This cluster may also represent a desire for renewal or a fresh start, suggesting the Seer's internal need to reconnect with their authentic self, free from societal expectations and pressures.</h2>
+</details>
 <br>
 
-<h1>Final Reflections</h1>
-<h2>The Dreamverse is a mirror reflecting the depths of our inner worlds, where each constellation offers insight into different facets of the human experience. As Seers, you are invited to reflect on these themes, considering their personal significance and the ways they manifest in your waking life. Pay attention to the connections between constellations, as they reveal the intricate web of your psyche, where seemingly distant themes may hold profound connections. The journey through the Dreamverse is one of self-discovery, healing, and growth, where each constellation serves as a guide towards greater self-awareness and fulfillment.</h2>
+<details>
+  <summary><h1>Final Reflections</h1></summary>
+<h2>The constellations of Dreamverse invite us to explore our internal landscapes, offering powerful insights into our personal journeys. Each Seer is encouraged to reflect on how these constellations resonate with their current life experiences, noticing which themes feel close or distant. The interplay between the constellations highlights not only personal transformation but also our collective evolution. Where do you find yourself in this cosmic map? Which constellations call to you, and what might they be asking you to explore next?</h2>
+</details>
 <br>
   
 </body>
